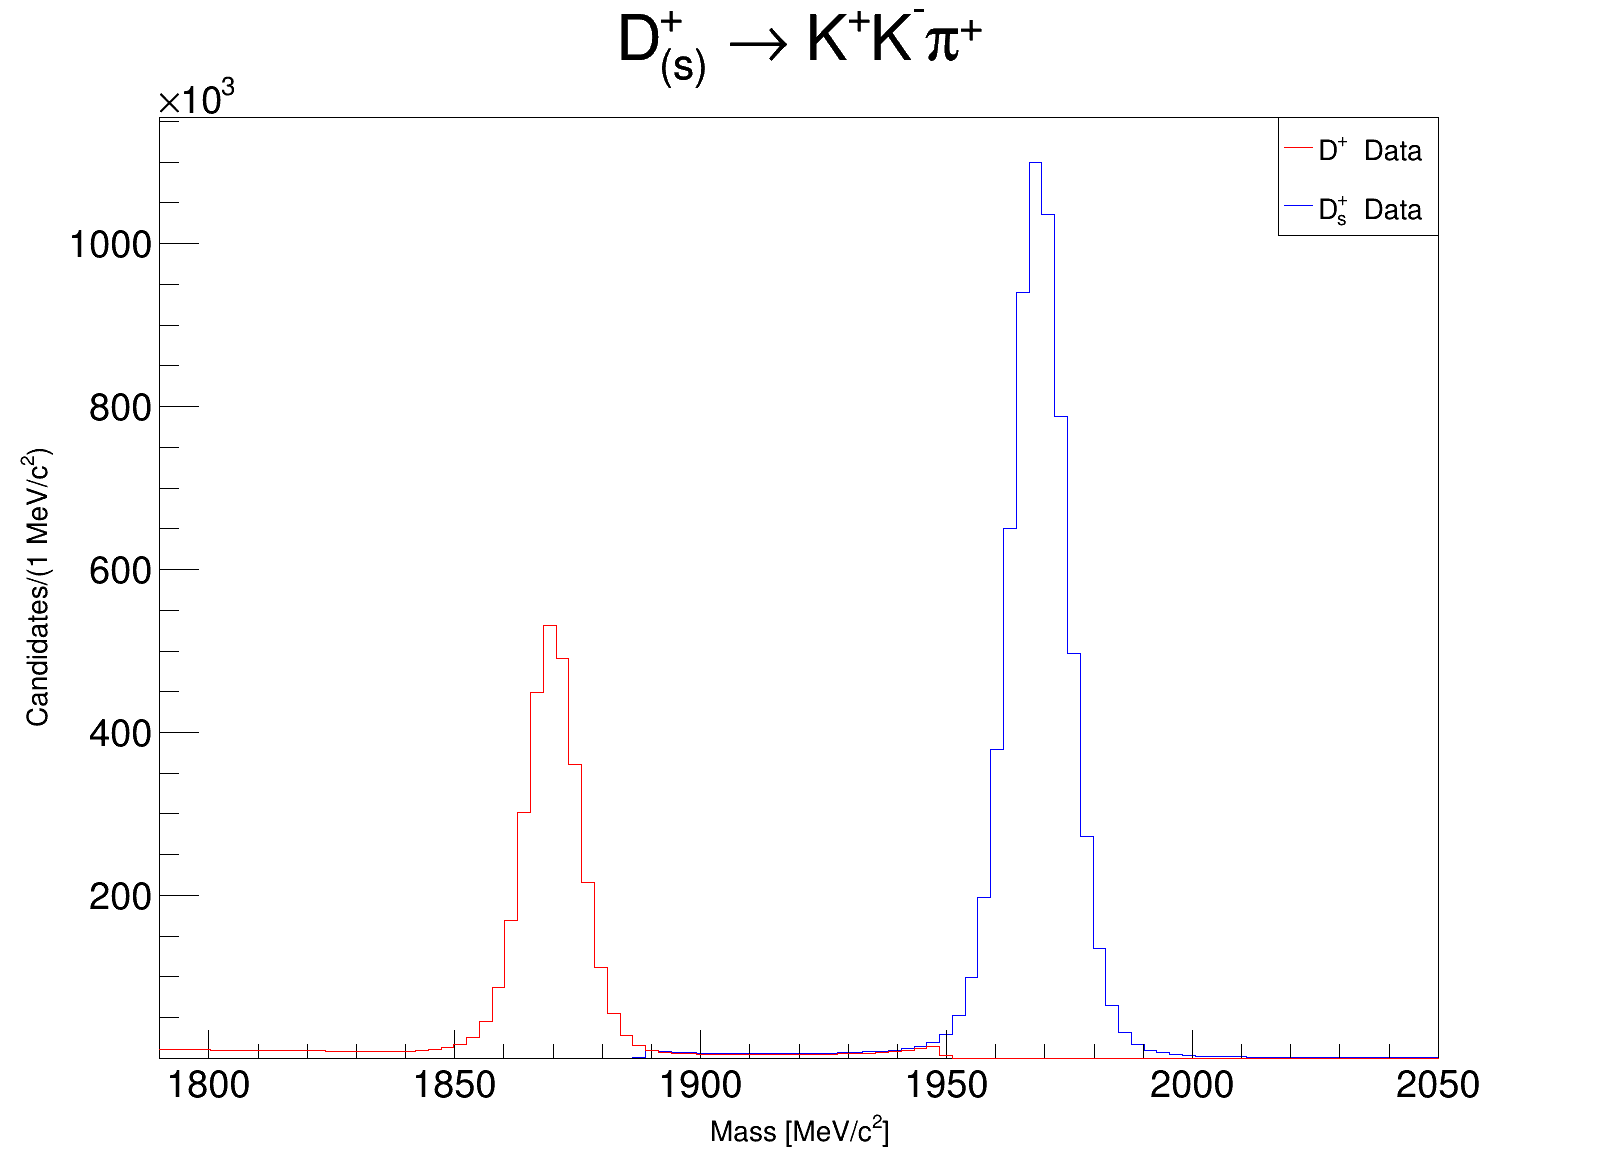
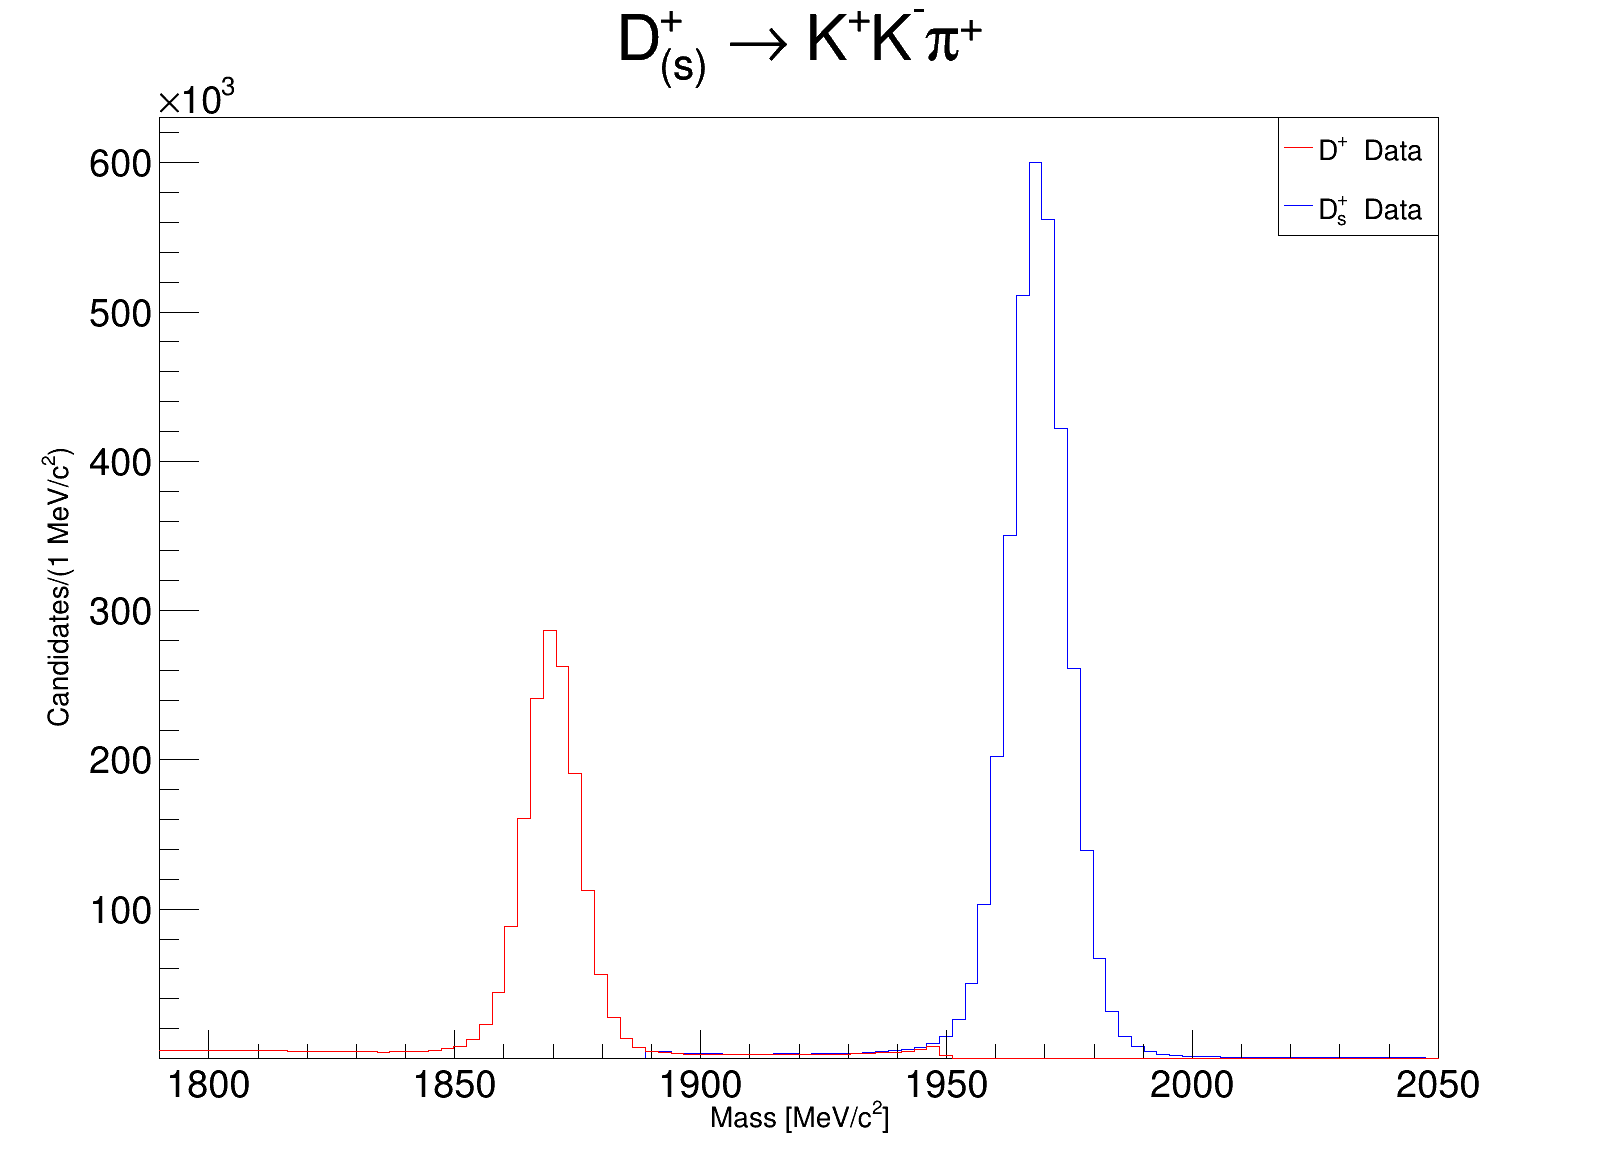
progress on rdf including some Root-R interfacing

diff --git a/dp_tests_rdf.C b/dp_tests_rdf.C
@@ -1,0 +1,130 @@
+{//begin
+#include <TMath.h>
+#include <math.h>
+#include "scripts/fit1MeV_GaussianPlusCBWithExp_redo.C"
+
+using namespace std;
+using namespace ROOT;
+
+EnableImplicitMT();
+
+
+//create rdataframe for dp magdown data
+RDataFrame dpdf("D2KKpi/DecayTree", "/share/lazy/D2KKpi/dp2kkpi_magdown.root");
+
+//get and print number of entries
+/*
+auto dpdf_count = dpdf.Count();
+double dpdfEntries = *dpdf_count;
+cout << "Dp MagDown Raw Entries: " << dpdfEntries << endl;
+*/
+//get and print column names
+/*
+auto colNames = dpdf.GetColumnNames();
+for (auto &&colName : colNames) std::cout << colName << std::endl;
+*/
+
+const double phi_pm = 12;
+const double phiupperbound = (1019.455+phi_pm)*(1019.455+phi_pm)/1000000; 
+const double philowerbound = (1019.455-phi_pm)*(1019.455-phi_pm)/1000000; 
+
+
+
+
+
+
+
+auto inv_m_func = [](double px1, double py1, double pz1, double pe1, double px2, double py2, double pz2, double pe2) {return TLorentzVector(TLorentzVector(px1, py1, pz1, pe1)+TLorentzVector(px2, py2, pz2, pe2)).Mag2()/1000000 ;};
+auto prob_func = [](double prob1, double prob2) {return TMath::Log(prob1) - TMath::Log(prob2) ;};
+
+
+auto cut_ipchi2 = [](double x) {return x < 5 ;};
+auto cut_fdchi2 = [](double x) {return x > 175 ;};
+auto cut_phi = [phiupperbound, philowerbound](double x) {return ((x > philowerbound) && (x < phiupperbound)) ;};
+auto cut_prob_5 = [] (double x) {return x>5 ;};
+auto cut_prob_0 = [] (double x) {return x>5 ;};
+
+auto signalregion = [](double x) {return ((x > 1855) && (x < 1885)) ;};
+auto backgroundregion = [](double x) {return ((x>1810 && x < 1840) || (x > 1900 && x < 1930)) ;};
+
+
+auto dp_cut = dpdf.Filter(cut_ipchi2, {"Dplus_IPCHI2_OWNPV"})
+				   .Filter(cut_fdchi2, {"Dplus_FDCHI2_OWNPV"})
+				   .Define("kminuslog", prob_func, {"Kminus_MC15TuneV1_ProbNNk", "Kminus_MC15TuneV1_ProbNNpi"})
+				   .Define("kpluslog", prob_func, {"Kplus_MC15TuneV1_ProbNNk", "Kplus_MC15TuneV1_ProbNNpi"})
+				   .Define("pipluslog", prob_func, {"Piplus_MC15TuneV1_ProbNNpi", "Piplus_MC15TuneV1_ProbNNk"})
+				   .Filter(cut_prob_5, {"kminuslog"})
+				   .Filter(cut_prob_5, {"kpluslog"})
+				   .Filter(cut_prob_0, {"pipluslog"})
+				   .Define("mkpkm", inv_m_func, {"Kplus_PX", "Kplus_PY", "Kplus_PZ", "Kplus_PE", "Kminus_PX", "Kminus_PY", "Kminus_PZ", "Kminus_PE"})
+				   .Filter(cut_phi, {"mkpkm"});
+
+
+
+
+auto dp_sig_df = dpdf.Filter(signalregion, {"Dplus_MM"});
+auto dp_bg_df = dpdf.Filter(backgroundregion, {"Dplus_MM"});
+
+
+auto dpendvertexcan = new TCanvas("dpendvertexcan", "dpendvertexcan", 1200, 800);
+	dpendvertexcan->cd();
+	//TPad *pad1 = new TPad("pad1","pad1",0,0,1,1);
+	//pad1->Draw();
+	//pad1->cd();
+	//pad1->SetLogy();
+
+
+
+auto dpendvertexsighist = dp_sig_df.Fill<double>(TH1D("signalhist","D+ EndVertex Chi2",36, 0, 18), {"Dplus_ENDVERTEX_CHI2"});//D^{+} #rightarrow K^{+}K^{-}#pi^{+} Cut and Fit
+	dpendvertexsighist->SetStats(0);
+    dpendvertexsighist->SetTitleFont(43);
+    dpendvertexsighist->SetTitleSize(35);
+    dpendvertexsighist->GetYaxis()->SetTitle("events per 1mev");//Candidates/(1 MeV/c^{2})
+    dpendvertexsighist->SetMinimum(100);//make minimum 1 so logy doesnt break, make 100 or better viewing
+    dpendvertexsighist->GetYaxis()->SetTitleFont(43);
+	dpendvertexsighist->GetYaxis()->SetTitleSize(30);
+	dpendvertexsighist->GetYaxis()->CenterTitle(true);
+    dpendvertexsighist->GetXaxis()->SetTitle("Mass [MeV/c^{2}]");
+    dpendvertexsighist->GetXaxis()->SetTitleFont(43);
+	dpendvertexsighist->GetXaxis()->SetTitleSize(25);
+	dpendvertexsighist->GetXaxis()->CenterTitle(true);
+	dpendvertexsighist->GetXaxis()->SetTitleOffset(1.2);
+	dpendvertexsighist->SetLineColor(kBlue);
+auto dpendvertexsighistROOT = dpendvertexsighist->DrawCopy();
+
+auto dpendvertexbghist = dp_bg_df.Fill<double>(TH1D("backgroundhist","D+ EndVertex Chi2",36, 0, 18), {"Dplus_ENDVERTEX_CHI2"});//D^{+} #rightarrow K^{+}K^{-}#pi^{+} Cut and Fit
+	dpendvertexbghist->SetStats(0);
+    dpendvertexbghist->SetTitleFont(43);
+    dpendvertexbghist->SetTitleSize(35);
+    dpendvertexbghist->GetYaxis()->SetTitle("events per 1mev");//Candidates/(1 MeV/c^{2})
+    dpendvertexbghist->SetMinimum(100);//make minimum 1 so logy doesnt break, make 100 or better viewing
+    dpendvertexbghist->GetYaxis()->SetTitleFont(43);
+	dpendvertexbghist->GetYaxis()->SetTitleSize(30);
+	dpendvertexbghist->GetYaxis()->CenterTitle(true);
+    dpendvertexbghist->GetXaxis()->SetTitle("Mass [MeV/c^{2}]");
+    dpendvertexbghist->GetXaxis()->SetTitleFont(43);
+	dpendvertexbghist->GetXaxis()->SetTitleSize(25);
+	dpendvertexbghist->GetXaxis()->CenterTitle(true);
+	dpendvertexbghist->GetXaxis()->SetTitleOffset(1.2);
+	dpendvertexbghist->SetLineColor(kRed);
+
+auto dpendvertexbghistROOT = dpendvertexbghist->DrawCopy();
+dpendvertexbghistROOT->Add(dpendvertexbghistROOT, -0.5); //this is necessary since this is twice the mass region of the signal, so scale it down by 1/2 for a good comparison
+
+
+
+
+auto endvertexlegend = new TLegend(0.7,0.8,0.9,0.9);
+	endvertexlegend->AddEntry(dpendvertexsighist.GetPtr(), "Signal Region", "lp");
+	endvertexlegend->AddEntry(dpendvertexbghist.GetPtr(), "Background Region", "lp");
+
+
+dpendvertexsighist->Draw("e0 9");
+dpendvertexbghist->Draw("e0 9 same");
+endvertexlegend->Draw("same");
+dpendvertexcan->SaveAs("image/dp_endvertex_sigbg.png");
+
+}//end
+
+
+

diff --git a/dp_cuts_rdf.C b/dp_cuts_rdf.C
@@ -6,7 +6,7 @@
 using namespace std;
 using namespace ROOT;
 
-//EnableImplicitMT();
+EnableImplicitMT();
 
 
 //create rdataframe for dp magdown data
@@ -41,6 +41,7 @@ auto prob_func = [](double prob1, double prob2) {return TMath::Log(prob1) - TMat
 
 auto cut_ipchi2 = [](double x) {return x < 5 ;};
 auto cut_fdchi2 = [](double x) {return x > 175 ;};
+auto cut_endvertexchi2 = [](double x) {return x < 3 ;};
 auto cut_phi = [phiupperbound, philowerbound](double x) {return x > philowerbound && x < phiupperbound ;};
 auto cut_prob_5 = [] (double x) {return x>5 ;};
 auto cut_prob_0 = [] (double x) {return x>5 ;};
@@ -49,6 +50,7 @@ auto cut_prob_0 = [] (double x) {return x>5 ;};
 
 auto dp_cut = dpdf.Filter(cut_ipchi2, {"Dplus_IPCHI2_OWNPV"})
 				   .Filter(cut_fdchi2, {"Dplus_FDCHI2_OWNPV"})
+				   .Filter(cut_endvertexchi2, {"Dplus_ENDVERTEX_CHI2"})
 				   .Define("kminuslog", prob_func, {"Kminus_MC15TuneV1_ProbNNk", "Kminus_MC15TuneV1_ProbNNpi"})
 				   .Define("kpluslog", prob_func, {"Kplus_MC15TuneV1_ProbNNk", "Kplus_MC15TuneV1_ProbNNpi"})
 				   .Define("pipluslog", prob_func, {"Piplus_MC15TuneV1_ProbNNpi", "Piplus_MC15TuneV1_ProbNNk"})
@@ -61,18 +63,6 @@ auto dp_cut = dpdf.Filter(cut_ipchi2, {"Dplus_IPCHI2_OWNPV"})
 
 
 
-auto totalpullcan = new TCanvas("totalpullcan", "totalpullcan", 1000, 800);
-	TPad *pad1 = new TPad("pad1","pad1",0,0.25,1,1.0);
-	TPad *pad2 = new TPad("pad2","pad2",0,0.0,1,0.25);
-		pad1->Draw();
-		pad2->Draw();
-
-pad1->cd();
-	pad1->SetBottomMargin(0);
-	pad1->SetLeftMargin(0.15);
-	//pad1->SetLogy();
-
-
 
 auto totalcuthist = dp_cut.Fill<double>(TH1D("totalcuthist","D+ cut and fit",nbins, binmin, binmax), {"Dplus_MM"});//D^{+} #rightarrow K^{+}K^{-}#pi^{+} Cut and Fit
 	totalcuthist->SetStats(0);
@@ -83,15 +73,16 @@ auto totalcuthist = dp_cut.Fill<double>(TH1D("totalcuthist","D+ cut and fit",nbi
     totalcuthist->GetYaxis()->SetTitleFont(43);
 	totalcuthist->GetYaxis()->SetTitleSize(30);
 	totalcuthist->GetYaxis()->CenterTitle(true);
+auto totalcuthistROOT = totalcuthist->DrawCopy();//converts Rhist into ROOThist
 
-/*
+
 auto myDpFit = new TF1("myDpFit",fit1MeV_GaussianPlusCBWithExp_redo,binmin, binmax, 9);
 	myDpFit->SetParNames("nSignal", "mu", "rms_wdth", "sigma_1", "gaus_frac", "exp_int","exp_coef","CB_alpha","CB_n");
 	myDpFit->SetLineColor(kRed+1);
 	myDpFit->SetLineWidth(2);
-		double maxbin = totalcuthist->GetBinContent(totalcuthist->GetMaximumBin());
-		double firstbin = totalcuthist->GetBinContent(1);//used for intercept guess
-		double lastbin = totalcuthist->GetBinContent(nbins-1);//used for slope guess
+		double maxbin = totalcuthistROOT->GetBinContent(totalcuthistROOT->GetMaximumBin());
+		double firstbin = totalcuthistROOT->GetBinContent(1);//used for intercept guess
+		double lastbin = totalcuthistROOT->GetBinContent(nbins-1);//used for slope guess
 		double nSignalGuess = (maxbin-firstbin)*15;
 		double expCoefGuess = (lastbin-firstbin)/nbins;
 	myDpFit->SetParameter(0,nSignalGuess);//nSignal
@@ -108,9 +99,7 @@ auto myDpFit = new TF1("myDpFit",fit1MeV_GaussianPlusCBWithExp_redo,binmin, binm
 	myDpFit->SetParameter(8,2.5);//crystal ball n
 	myDpFit->SetParLimits(8,1.00001,6.);
 
-totalcuthist->Fit("myDpFit","RL");
-*/
-totalcuthist->Draw();
+
 
 
 
@@ -155,9 +144,49 @@ auto dp_pull = dp_cut.Define("pull",
    xVals[i]=x;
    yVals[i]=pull;
    }
-totalcutpull->Draw();
+
 */
-totalpullcan->SaveAs("image/dp_cut_fit_pull_rdf.png");
+
+
+auto totalpullcanliny = new TCanvas("totalpullcanliny", "totalpullcanliny", 1000, 800);
+	TPad *pad1 = new TPad("pad1","pad1",0,0.25,1,1.0);
+	TPad *pad2 = new TPad("pad2","pad2",0,0.0,1,0.25);
+		pad1->Draw();
+		pad2->Draw();
+	pad1->cd();
+		pad1->SetBottomMargin(0);
+		pad1->SetLeftMargin(0.15);
+		//pad1->SetLogy();
+			totalcuthistROOT->Fit("myDpFit","RL");
+			totalcuthistROOT->Draw();
+	pad2->cd();
+		pad2->SetTopMargin(0);
+		pad2->SetBottomMargin(0.4);
+		pad2->SetLeftMargin(0.15);
+		pad2->SetGridx();
+			//totalcutpull->Draw();
+totalpullcanliny->SaveAs("image/dp_cut_fit_pull_rdf_liny.png");
+
+
+
+auto totalpullcanlogy = new TCanvas("totalpullcanlogy", "totalpullcanlogy", 1000, 800);
+	TPad *pad11 = new TPad("pad11","pad11",0,0.25,1,1.0);
+	TPad *pad22 = new TPad("pad22","pad22",0,0.0,1,0.25);
+		pad11->Draw();
+		pad22->Draw();
+	pad11->cd();
+		pad11->SetBottomMargin(0);
+		pad11->SetLeftMargin(0.15);
+		pad11->SetLogy();
+			totalcuthistROOT->Fit("myDpFit","RL");
+			totalcuthistROOT->Draw();
+	pad22->cd();
+		pad22->SetTopMargin(0);
+		pad22->SetBottomMargin(0.4);
+		pad22->SetLeftMargin(0.15);
+		pad22->SetGridx();
+			//totalcutpull->Draw();
+totalpullcanlogy->SaveAs("image/dp_cut_fit_pull_rdf_logy.png");
 
 }//end
 

diff --git a/dp_dsp_rdf.C b/dp_dsp_rdf.C
@@ -15,7 +15,7 @@ RDataFrame dspdf("Dsp2KKpi/DecayTree", "/share/lazy/D2KKpi/dsp2kkpi_magdown.root
 
 
 
-const double phi_pm = 10;//12 for regular cut
+const double phi_pm = 12;//12 for regular cut
 const double phiupperbound = (1019.455+phi_pm)*(1019.455+phi_pm)/1000000; 
 const double philowerbound = (1019.455-phi_pm)*(1019.455-phi_pm)/1000000; 
 
@@ -31,8 +31,9 @@ auto inv_m_func = [](double px1, double py1, double pz1, double pe1, double px2,
 auto prob_func = [](double prob1, double prob2) {return TMath::Log(prob1) - TMath::Log(prob2) ;};
 
 
-auto cut_ipchi2 = [](double x) {return x < 3 ;};//5 for regular cut
-auto cut_fdchi2 = [](double x) {return x > 200 ;};//175 for regular cut
+auto cut_ipchi2 = [](double x) {return x < 5 ;};//5 for regular cut
+auto cut_fdchi2 = [](double x) {return x > 175 ;};//175 for regular cut
+auto cut_endvertexchi2 = [](double x) {return x < 3 ;};
 auto cut_phi = [phiupperbound, philowerbound](double x) {return x > philowerbound && x < phiupperbound ;};
 auto cut_prob_5 = [] (double x) {return x>5 ;};
 auto cut_prob_0 = [] (double x) {return x>0 ;};
@@ -41,6 +42,7 @@ auto cut_prob_0 = [] (double x) {return x>0 ;};
 
 auto dp_cut = dpdf.Filter(cut_ipchi2, {"Dplus_IPCHI2_OWNPV"})
 				   .Filter(cut_fdchi2, {"Dplus_FDCHI2_OWNPV"})
+				   .Filter(cut_endvertexchi2, {"Dplus_ENDVERTEX_CHI2"})
 				   .Define("kminuslog", prob_func, {"Kminus_MC15TuneV1_ProbNNk", "Kminus_MC15TuneV1_ProbNNpi"})
 				   .Define("kpluslog", prob_func, {"Kplus_MC15TuneV1_ProbNNk", "Kplus_MC15TuneV1_ProbNNpi"})
 				   .Define("pipluslog", prob_func, {"Piplus_MC15TuneV1_ProbNNpi", "Piplus_MC15TuneV1_ProbNNk"})
@@ -52,6 +54,7 @@ auto dp_cut = dpdf.Filter(cut_ipchi2, {"Dplus_IPCHI2_OWNPV"})
 
 auto dsp_cut = dspdf.Filter(cut_ipchi2, {"Dsplus_IPCHI2_OWNPV"})
 				   .Filter(cut_fdchi2, {"Dsplus_FDCHI2_OWNPV"})
+				   .Filter(cut_endvertexchi2, {"Dsplus_ENDVERTEX_CHI2"})
 				   .Define("kminuslog", prob_func, {"Kminus_MC15TuneV1_ProbNNk", "Kminus_MC15TuneV1_ProbNNpi"})
 				   .Define("kpluslog", prob_func, {"Kplus_MC15TuneV1_ProbNNk", "Kplus_MC15TuneV1_ProbNNpi"})
 				   .Define("pipluslog", prob_func, {"Piplus_MC15TuneV1_ProbNNpi", "Piplus_MC15TuneV1_ProbNNk"})
